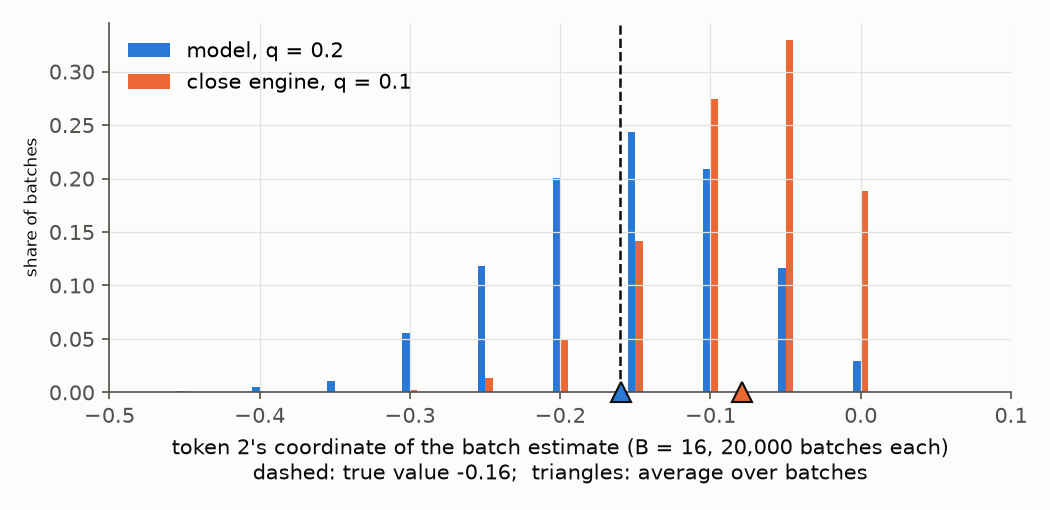
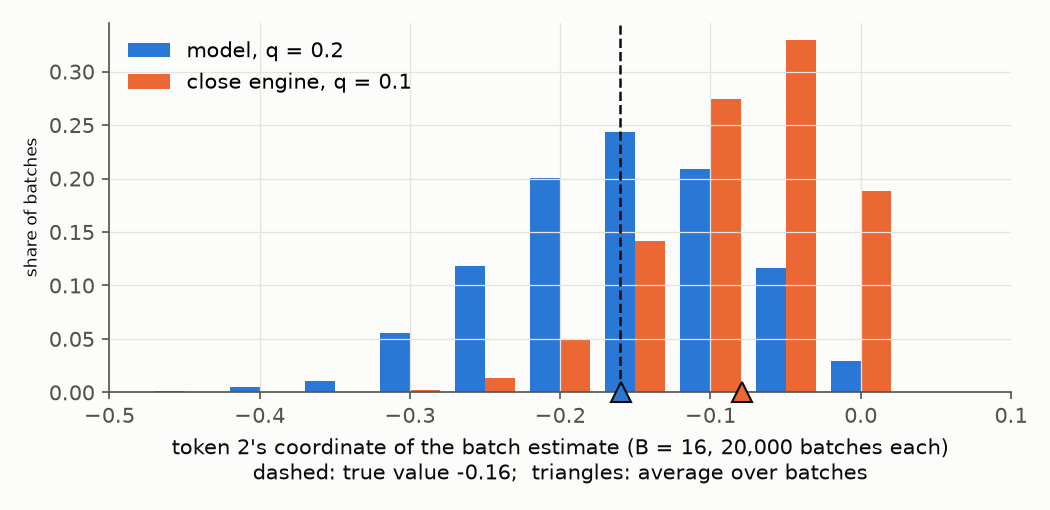
Figures: histogram bars fill the gap between discrete estimates

Changed region(s): [[0.4267, 0.0588, 0.8533, 0.7647], [0.2743, 0.6471, 0.3962, 0.7647], [0.2133, 0.7353, 0.2438, 0.7647]]

diff --git a/rl-corrections/bias_variance_figs.py b/rl-corrections/bias_variance_figs.py
@@ -72,8 +72,9 @@ def batches(w, p_engine, b=0.0):
 
 def hist(ax, est, color, lo, hi):
   """Share of batches at each estimate (the estimates are discrete), true value dashed, average as a triangle."""
-  values, counts = est.unique(return_counts=True)                       # [n], [n]
-  ax.bar(values.numpy(), (counts / len(est)).numpy(), width=(hi - lo) / 120, color=color)
+  values, counts = (est * 1e4).round().div(1e4).unique(return_counts=True)   # [n], [n]  rounded: the estimates are discrete
+  width = 0.8 * values.diff().min().item() if len(values) > 1 else (hi - lo) / 120   # fill the gap between values
+  ax.bar(values.numpy(), (counts / len(est)).numpy(), width=width, color=color)
   ax.axvline(TRUE2, color=INK, linestyle='--', linewidth=1.2)
   ax.plot(est.mean().item(), 0, marker='^', color=INK, markersize=9, clip_on=False, zorder=5)
   ax.set_xlim(lo, hi)
@@ -83,7 +84,7 @@ def hist(ax, est, color, lo, hi):
 # Figure 1: model vs close engine writing the tokens, w = 1. Same scatter, different center.
 fig, ax = plt.subplots(figsize=(7, 3.4))
 lo, hi = -0.5, 0.1
-width = (hi - lo) / 120
+width = 0.05 * 0.4                                                      # estimates are multiples of 0.05; two bars per slot
 for (name, p_sampler), color, shift in zip([('model, q = 0.2', p), ('close engine, q = 0.1', ENGINES['close'])], [BLUE, ORANGE], [-0.5, 0.5]):
   est = batches(torch.ones(V), p_sampler)                              # [N_BATCHES]
   values, counts = est.unique(return_counts=True)                      # [n], [n]
